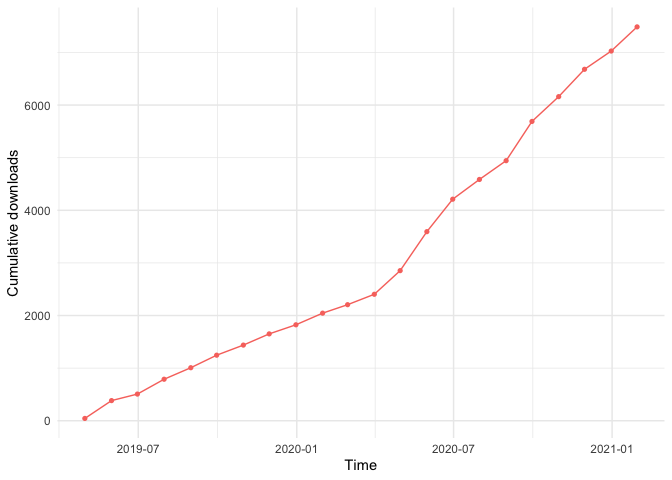
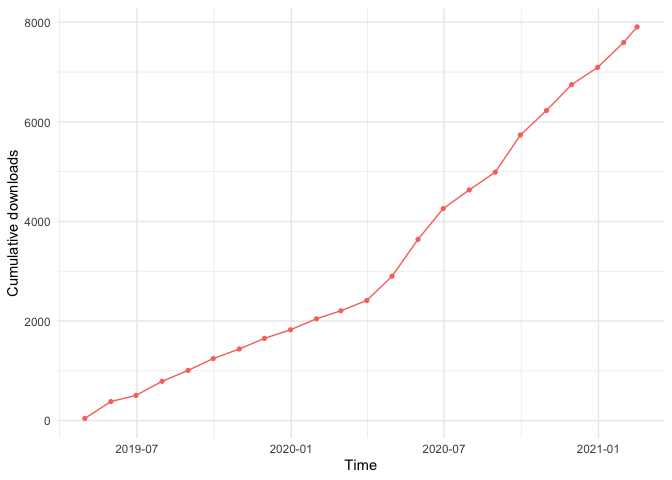
Modified the default visualization of `bp_show_survey()`

diff --git a/docs/news/index.html b/docs/news/index.html
@@ -79,7 +79,7 @@
       </button>
       <span class="navbar-brand">
         <a class="navbar-link" href="../index.html">sigminer</a>
-        <span class="version label label-default" data-toggle="tooltip" data-placement="bottom" title="Released version">1.2.4</span>
+        <span class="version label label-default" data-toggle="tooltip" data-placement="bottom" title="Released version">1.2.4.999</span>
       </span>
     </div>
 
@@ -125,24 +125,20 @@
       <small>Source: <a href='https://github.com/ShixiangWang/sigminer/blob/master/NEWS.md'><code>NEWS.md</code></a></small>
     </div>
 
-    <div id="sigminer-124" class="section level1">
-<h1 class="page-header" data-toc-text="1.2.4">
-<a href="#sigminer-124" class="anchor"></a>sigminer 1.2.4<small> Unreleased </small>
+    <div id="sigminer-125" class="section level1">
+<h1 class="page-header" data-toc-text="1.2.5">
+<a href="#sigminer-125" class="anchor"></a>sigminer 1.2.5<small> Unreleased </small>
 </h1>
 <div id="bug-reports" class="section level2">
 <h2 class="hasAnchor">
 <a href="#bug-reports" class="anchor"></a>BUG REPORTS</h2>
-<ul>
-<li>Fixed the assign problem about match pair in <code><a href="../reference/bp.html">bp_extract_signatures()</a></code> with <code>lpSolve</code> package instead of using my problematic code.</li>
-</ul>
 </div>
 <div id="enhancements" class="section level2">
 <h2 class="hasAnchor">
 <a href="#enhancements" class="anchor"></a>ENHANCEMENTS</h2>
 <ul>
-<li>Add cores check.</li>
-<li>Upgraded SP to v1.1.0 (need test).</li>
-<li>Try installing Torch before SP (need test).</li>
+<li>Modified the default visualization of <code><a href="../reference/bp.html">bp_show_survey()</a></code>.</li>
+<li>Enhanced <code>torch</code> check.</li>
 </ul>
 </div>
 <div id="new-functions" class="section level2">
@@ -154,21 +150,52 @@
 <a href="#deprecated" class="anchor"></a>DEPRECATED</h2>
 </div>
 </div>
-    <div id="sigminer-122" class="section level1">
-<h1 class="page-header" data-toc-text="1.2.2">
-<a href="#sigminer-122" class="anchor"></a>sigminer 1.2.2<small> Unreleased </small>
+    <div id="sigminer-124" class="section level1">
+<h1 class="page-header" data-toc-text="1.2.4">
+<a href="#sigminer-124" class="anchor"></a>sigminer 1.2.4<small> 2021-01-30 </small>
 </h1>
 <div id="bug-reports-1" class="section level2">
 <h2 class="hasAnchor">
 <a href="#bug-reports-1" class="anchor"></a>BUG REPORTS</h2>
 <ul>
-<li>Fixed bug in silhouette calculation in <code><a href="../reference/bp.html">bp_extract_signatures()</a></code> (<a href='https://github.com/ShixiangWang/sigminer/issues/332'>#332</a>). PAY ATTENTION: this may affect results.</li>
-<li>Fixed bug using custom signature name in <code><a href="../reference/show_sig_profile_loop.html">show_sig_profile_loop()</a></code>.</li>
+<li>Fixed the assign problem about match pair in <code><a href="../reference/bp.html">bp_extract_signatures()</a></code> with <code>lpSolve</code> package instead of using my problematic code.</li>
 </ul>
 </div>
 <div id="enhancements-1" class="section level2">
 <h2 class="hasAnchor">
 <a href="#enhancements-1" class="anchor"></a>ENHANCEMENTS</h2>
+<ul>
+<li>Supported <code>mm10</code> in <code><a href="../reference/read_vcf.html">read_vcf()</a></code>.</li>
+<li>Removed large data files and store them in Zenodo to reduce package size.</li>
+<li>Added cores check.</li>
+<li>Upgraded SP to v1.1.0 (need test).</li>
+<li>Tried installing Torch before SP (need test).</li>
+</ul>
+</div>
+<div id="new-functions-1" class="section level2">
+<h2 class="hasAnchor">
+<a href="#new-functions-1" class="anchor"></a>NEW FUNCTIONS</h2>
+</div>
+<div id="deprecated-1" class="section level2">
+<h2 class="hasAnchor">
+<a href="#deprecated-1" class="anchor"></a>DEPRECATED</h2>
+</div>
+</div>
+    <div id="sigminer-122" class="section level1">
+<h1 class="page-header" data-toc-text="1.2.2">
+<a href="#sigminer-122" class="anchor"></a>sigminer 1.2.2<small> Unreleased </small>
+</h1>
+<div id="bug-reports-2" class="section level2">
+<h2 class="hasAnchor">
+<a href="#bug-reports-2" class="anchor"></a>BUG REPORTS</h2>
+<ul>
+<li>Fixed bug in silhouette calculation in <code><a href="../reference/bp.html">bp_extract_signatures()</a></code> (<a href='https://github.com/ShixiangWang/sigminer/issues/332'>#332</a>). PAY ATTENTION: this may affect results.</li>
+<li>Fixed bug using custom signature name in <code><a href="../reference/show_sig_profile_loop.html">show_sig_profile_loop()</a></code>.</li>
+</ul>
+</div>
+<div id="enhancements-2" class="section level2">
+<h2 class="hasAnchor">
+<a href="#enhancements-2" class="anchor"></a>ENHANCEMENTS</h2>
 <ul>
 <li>Subset signatures to plot is available by <code>sig_names</code> option.</li>
 <li>sigminer is available in bioconda channel: <a href="https://anaconda.org/bioconda/r-sigminer/" class="uri">https://anaconda.org/bioconda/r-sigminer/</a>
@@ -180,17 +207,17 @@
 <li>Updated the internal code for getting relative activity in <code><a href="../reference/get_sig_exposure.html">get_sig_exposure()</a></code>.</li>
 </ul>
 </div>
-<div id="new-functions-1" class="section level2">
+<div id="new-functions-2" class="section level2">
 <h2 class="hasAnchor">
-<a href="#new-functions-1" class="anchor"></a>NEW FUNCTIONS</h2>
+<a href="#new-functions-2" class="anchor"></a>NEW FUNCTIONS</h2>
 <ul>
 <li>
 <code><a href="../reference/bp.html">bp_get_clustered_sigs()</a></code> to get clustered mean signatures.</li>
 </ul>
 </div>
-<div id="deprecated-1" class="section level2">
+<div id="deprecated-2" class="section level2">
 <h2 class="hasAnchor">
-<a href="#deprecated-1" class="anchor"></a>DEPRECATED</h2>
+<a href="#deprecated-2" class="anchor"></a>DEPRECATED</h2>
 </div>
 </div>
     <div id="sigminer-121" class="section level1">
@@ -200,31 +227,6 @@
 <ul>
 <li>Updated author list.</li>
 </ul>
-<div id="bug-reports-2" class="section level2">
-<h2 class="hasAnchor">
-<a href="#bug-reports-2" class="anchor"></a>BUG REPORTS</h2>
-</div>
-<div id="enhancements-2" class="section level2">
-<h2 class="hasAnchor">
-<a href="#enhancements-2" class="anchor"></a>ENHANCEMENTS</h2>
-<ul>
-<li>Added a quick start vignette.</li>
-<li>A new option <code>highlight</code> is added to <code><a href="../reference/show_sig_number_survey.html">show_sig_number_survey()</a></code> and <code><a href="../reference/bp.html">bp_show_survey2()</a></code> to highlight a selected number.</li>
-</ul>
-</div>
-<div id="new-functions-2" class="section level2">
-<h2 class="hasAnchor">
-<a href="#new-functions-2" class="anchor"></a>NEW FUNCTIONS</h2>
-</div>
-<div id="deprecated-2" class="section level2">
-<h2 class="hasAnchor">
-<a href="#deprecated-2" class="anchor"></a>DEPRECATED</h2>
-</div>
-</div>
-    <div id="sigminer-120" class="section level1">
-<h1 class="page-header" data-toc-text="1.2.0">
-<a href="#sigminer-120" class="anchor"></a>sigminer 1.2.0<small> Unreleased </small>
-</h1>
 <div id="bug-reports-3" class="section level2">
 <h2 class="hasAnchor">
 <a href="#bug-reports-3" class="anchor"></a>BUG REPORTS</h2>
@@ -232,6 +234,31 @@
 <div id="enhancements-3" class="section level2">
 <h2 class="hasAnchor">
 <a href="#enhancements-3" class="anchor"></a>ENHANCEMENTS</h2>
+<ul>
+<li>Added a quick start vignette.</li>
+<li>A new option <code>highlight</code> is added to <code><a href="../reference/show_sig_number_survey.html">show_sig_number_survey()</a></code> and <code><a href="../reference/bp.html">bp_show_survey2()</a></code> to highlight a selected number.</li>
+</ul>
+</div>
+<div id="new-functions-3" class="section level2">
+<h2 class="hasAnchor">
+<a href="#new-functions-3" class="anchor"></a>NEW FUNCTIONS</h2>
+</div>
+<div id="deprecated-3" class="section level2">
+<h2 class="hasAnchor">
+<a href="#deprecated-3" class="anchor"></a>DEPRECATED</h2>
+</div>
+</div>
+    <div id="sigminer-120" class="section level1">
+<h1 class="page-header" data-toc-text="1.2.0">
+<a href="#sigminer-120" class="anchor"></a>sigminer 1.2.0<small> Unreleased </small>
+</h1>
+<div id="bug-reports-4" class="section level2">
+<h2 class="hasAnchor">
+<a href="#bug-reports-4" class="anchor"></a>BUG REPORTS</h2>
+</div>
+<div id="enhancements-4" class="section level2">
+<h2 class="hasAnchor">
+<a href="#enhancements-4" class="anchor"></a>ENHANCEMENTS</h2>
 <ul>
 <li>A new option <code>cut_p_value</code> is added to <code><a href="../reference/show_group_enrichment.html">show_group_enrichment()</a></code> to cut continous p values as binned regions.</li>
 <li>A Python backend for <code><a href="../reference/sig_extract.html">sig_extract()</a></code> is provided.</li>
@@ -241,9 +268,9 @@
 <li>Removed <code>pConstant</code> option from <code><a href="../reference/sig_extract.html">sig_extract()</a></code> and <code><a href="../reference/sig_estimate.html">sig_estimate()</a></code>. Now a auto-check function is created for avoiding the error from NMF package due to no contribution of a component in all samples.</li>
 </ul>
 </div>
-<div id="new-functions-3" class="section level2">
+<div id="new-functions-4" class="section level2">
 <h2 class="hasAnchor">
-<a href="#new-functions-3" class="anchor"></a>NEW FUNCTIONS</h2>
+<a href="#new-functions-4" class="anchor"></a>NEW FUNCTIONS</h2>
 <ul>
 <li>
 <code><a href="../reference/bp.html">bp_show_survey2()</a></code> to plot a simplified version for signature number survey (<a href='https://github.com/ShixiangWang/sigminer/issues/330'>#330</a>).</li>
@@ -254,9 +281,9 @@
 <li>Added functions start with <code>bp_</code> which are combined to provide a best practice for extracting signatures in cancer researches. See more details, run <code><a href="../reference/bp.html">?bp</a></code> in your R console.</li>
 </ul>
 </div>
-<div id="deprecated-3" class="section level2">
+<div id="deprecated-4" class="section level2">
 <h2 class="hasAnchor">
-<a href="#deprecated-3" class="anchor"></a>DEPRECATED</h2>
+<a href="#deprecated-4" class="anchor"></a>DEPRECATED</h2>
 </div>
 </div>
     <div id="sigminer-110" class="section level1">

diff --git a/docs/index.html b/docs/index.html
@@ -49,7 +49,7 @@
       </button>
       <span class="navbar-brand">
         <a class="navbar-link" href="index.html">sigminer</a>
-        <span class="version label label-default" data-toggle="tooltip" data-placement="bottom" title="Released version">1.2.4</span>
+        <span class="version label label-default" data-toggle="tooltip" data-placement="bottom" title="Released version">1.2.4.999</span>
       </span>
     </div>
 
@@ -210,7 +210,7 @@
 <td align="left">10 (0.971)</td>
 <td align="left">100%/0.981</td>
 <td align="left">~10min (8 cores)</td>
-<td>My R implementation for methods from reference #5 and #6. Should be the best option here.</td>
+<td>My R implementation for methods from reference #5 and #6. Should be the best option here. (<strong>Pay attention to the suggested solution</strong>)</td>
 </tr>
 <tr class="even">
 <td align="left">Best Practice</td>

diff --git a/docs/LICENSE-text.html b/docs/LICENSE-text.html
@@ -79,7 +79,7 @@
       </button>
       <span class="navbar-brand">
         <a class="navbar-link" href="index.html">sigminer</a>
-        <span class="version label label-default" data-toggle="tooltip" data-placement="bottom" title="Released version">1.2.4</span>
+        <span class="version label label-default" data-toggle="tooltip" data-placement="bottom" title="Released version">1.2.4.999</span>
       </span>
     </div>
 

diff --git a/docs/LICENSE.html b/docs/LICENSE.html
@@ -79,7 +79,7 @@
       </button>
       <span class="navbar-brand">
         <a class="navbar-link" href="index.html">sigminer</a>
-        <span class="version label label-default" data-toggle="tooltip" data-placement="bottom" title="Released version">1.2.4</span>
+        <span class="version label label-default" data-toggle="tooltip" data-placement="bottom" title="Released version">1.2.4.999</span>
       </span>
     </div>
 

diff --git a/docs/README_zh.html b/docs/README_zh.html
@@ -79,7 +79,7 @@
       </button>
       <span class="navbar-brand">
         <a class="navbar-link" href="index.html">sigminer</a>
-        <span class="version label label-default" data-toggle="tooltip" data-placement="bottom" title="Released version">1.2.4</span>
+        <span class="version label label-default" data-toggle="tooltip" data-placement="bottom" title="Released version">1.2.4.999</span>
       </span>
     </div>
 

diff --git a/docs/authors.html b/docs/authors.html
@@ -79,7 +79,7 @@
       </button>
       <span class="navbar-brand">
         <a class="navbar-link" href="index.html">sigminer</a>
-        <span class="version label label-default" data-toggle="tooltip" data-placement="bottom" title="Released version">1.2.4</span>
+        <span class="version label label-default" data-toggle="tooltip" data-placement="bottom" title="Released version">1.2.4.999</span>
       </span>
     </div>
 

diff --git a/README.md b/README.md
@@ -93,7 +93,7 @@ settings.
 |:--------------|:---------------------|:------------------------------------------------------|:------------------------------|:----------|:----------------|:-----------|:-----------|:----------------|:-----------|:--------------|:------------------|---------------------------------------------------------------------------------------------------------------------------------------------------------------------|
 | Standard NMF  | Manual               | Default. 50 runs (estimation) + 100 runs (extraction) | `sig_estimate`, `sig_extract` | YES ⭐⭐⭐   | R               | 10 (0.884) | 10 (0.944) | 9 or 10 (0.998) | 10 (0.994) | \~90%/0.955   | \~1min (8 cores)  | This is a basic method, suitable for good mutation data with enough mutations.                                                                                      |
 | SigProfiler   | **Manual/Automatic** | Default. 100 runs                                     | `sigprofiler_extract`         | YES ⭐⭐⭐⭐  | Python/Anaconda | 10 (0.961) | 10 (0.999) | 10 (0.990)      | 10 (0.997) | 100%/0.987    | \~1h (8 cores)    | A golden standard like approach in this field, but longer run time, and the requirement for Python environment and extra large packages reduce its popularity here. |
-| Best Practice | **Manual/Automatic** | Use bootstrapped catalog (1000 runs)                  | `bp_extract_signatures`       | YES ⭐⭐⭐⭐⭐ | R               | 10 (0.973) | 10 (0.990) | 10 (0.992)      | 10 (0.971) | 100%/0.981    | \~10min (8 cores) | My R implementation for methods from reference \#5 and \#6. Should be the best option here.                                                                         |
+| Best Practice | **Manual/Automatic** | Use bootstrapped catalog (1000 runs)                  | `bp_extract_signatures`       | YES ⭐⭐⭐⭐⭐ | R               | 10 (0.973) | 10 (0.990) | 10 (0.992)      | 10 (0.971) | 100%/0.981    | \~10min (8 cores) | My R implementation for methods from reference \#5 and \#6. Should be the best option here. (**Pay attention to the suggested solution**)                           |
 | Best Practice | **Manual/Automatic** | Use original catalog (1000 runs)                      | `bp_extract_signatures`       | NO :star: | R               | 10 (0.987) | 9 (0.985)  | 10 (0.997)      | 9 (0.987)  | 50%/0.989     | \~10min (8 cores) | This is created to compare with the approach with bootstrapped catalogs above and the standard NMF way.                                                             |
 | Bayesian NMF  | **Automatic**        | L1KL+optimal (20 runs)                                | `sig_auto_extract`            | YES ⭐⭐⭐   | R               | 10 (0.994) | 9 (0.997)  | 9 (0.998)       | 9 (0.999)  | 25%/0.997     | \~10min (8 cores) | The Bayesian NMF approach auto reduce the signature number to a proper value from a initial signature number, here is 20.                                           |
 | Bayesian NMF  | **Automatic**        | L1KL+stable (20 runs)                                 | `sig_auto_extract`            | YES ⭐⭐⭐⭐  | R               | 10 (0.994) | 9 (0.997)  | 10 (0.988)      | 9 (0.999)  | 50%/0.995     | \~10min (8 cores) | See above.                                                                                                                                                          |

diff --git a/NEWS.md b/NEWS.md
@@ -5,6 +5,7 @@
 
 ## ENHANCEMENTS
 
+- Modified the default visualization of `bp_show_survey()`.
 - Enhanced `torch` check.
 
 ## NEW FUNCTIONS
